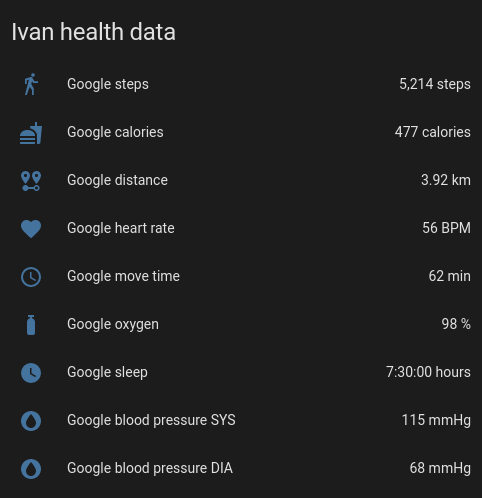
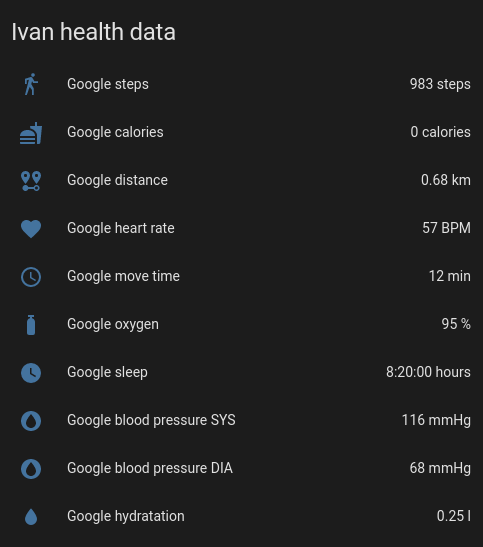
Added hydratation sensor

diff --git a/custom_components/google_fit/sensor.py b/custom_components/google_fit/sensor.py
@@ -64,6 +64,7 @@ OXYGEN = 'oxygen'
 BP_SYS = 'blood pressure SYS'
 BP_DIA = 'blood pressure DIA'
 NUTRITION = 'nutrition'
+HYDRATATION = 'hydratation'
 
 # Endpoint scopes required for the sensor.
 # Read more: https://developers.google.com/fit/rest/v1/authorization
@@ -222,6 +223,7 @@ def setup_platform(hass, config, add_devices, discovery_info=None):
                  GoogleFitBloodPresureSysSensor(client, name),
                  GoogleFitBloodPresureDiaSensor(client, name),
                  GoogleFitNutritionSensor(client, name),
+                 GoogleFitHydratationSensor(client, name),
                  GoogleFitDistanceSensor(client, name)], True)
 
 
@@ -841,3 +843,35 @@ class GoogleFitNutritionSensor(GoogleFitSensor):
         self._state = ""
         self._attributes = state
         self._last_updated = time.time()
+
+
+class GoogleFitHydratationSensor(GoogleFitSensor):
+    DATA_SOURCE = "derived:com.google.hydration:com.google.android.gms:merged"
+
+    @property
+    def _name_suffix(self):
+        """Returns the name suffix of the sensor."""
+        return HYDRATATION
+
+    @property
+    def unit_of_measurement(self):
+        """Returns the unit of measurement."""
+        return "l"
+
+    @property
+    def icon(self):
+        """Return the icon."""
+        return 'mdi:water'
+
+    @util.Throttle(MIN_TIME_BETWEEN_SCANS, MIN_TIME_BETWEEN_UPDATES)
+    def update(self):
+        """Extracts the relevant data points for from the Fitness API."""
+        values = 0.0
+        for point in self._get_dataset(self.DATA_SOURCE)["point"]:
+            if int(point["startTimeNanos"]) > _today_dataset_start():
+                values += point['value'][0]['fpVal']
+
+        self._last_updated = time.time()
+        self._state = values
+        _LOGGER.debug("Hydratation  %s", self._state)
+        self._attributes = {}

diff --git a/README.md b/README.md
@@ -20,6 +20,7 @@ At the moment, the component provides following measurements:
 - oxygen
 - blood pressure
 - nutrition
+- hydratation
 
 # Installation
 
@@ -60,17 +61,18 @@ the generated URL, allow access and don't forget to tick mark all permissions. T
 
 ## Sensors
 
-| Sensor name        | Entity                            |
-|--------------------|-----------------------------------|
-| Steps              | sensor.google_steps               |
-| Calories           | sensor.google_calories            |
-| Distance           | sensor.google_distance            |
-| Heart rate         | sensor.google_heart_rate          |
-| Move time          | sensor.google_move_time           |
-| Blood oxygen       | sensor.google_oxygen              |
-| Sleep              | sensor.google_sleep               |
-| Blood pressure SYS | sensor.google_blood_pressure_sys  |
-| Blood pressure DIA | sensor.google_blood_pressure_dia  |
+| Sensor name        | Entity                           |
+|--------------------|----------------------------------|
+| Steps              | sensor.google_steps              |
+| Calories           | sensor.google_calories           |
+| Distance           | sensor.google_distance           |
+| Heart rate         | sensor.google_heart_rate         |
+| Move time          | sensor.google_move_time          |
+| Blood oxygen       | sensor.google_oxygen             |
+| Sleep              | sensor.google_sleep              |
+| Blood pressure SYS | sensor.google_blood_pressure_sys |
+| Blood pressure DIA | sensor.google_blood_pressure_dia |
+| Hydratation        | sensor.google_hydratation        |
 
 ![](https://github.com/IvanVojtko/googlefit-homeassistant/blob/master/2.png?raw=true)
 
